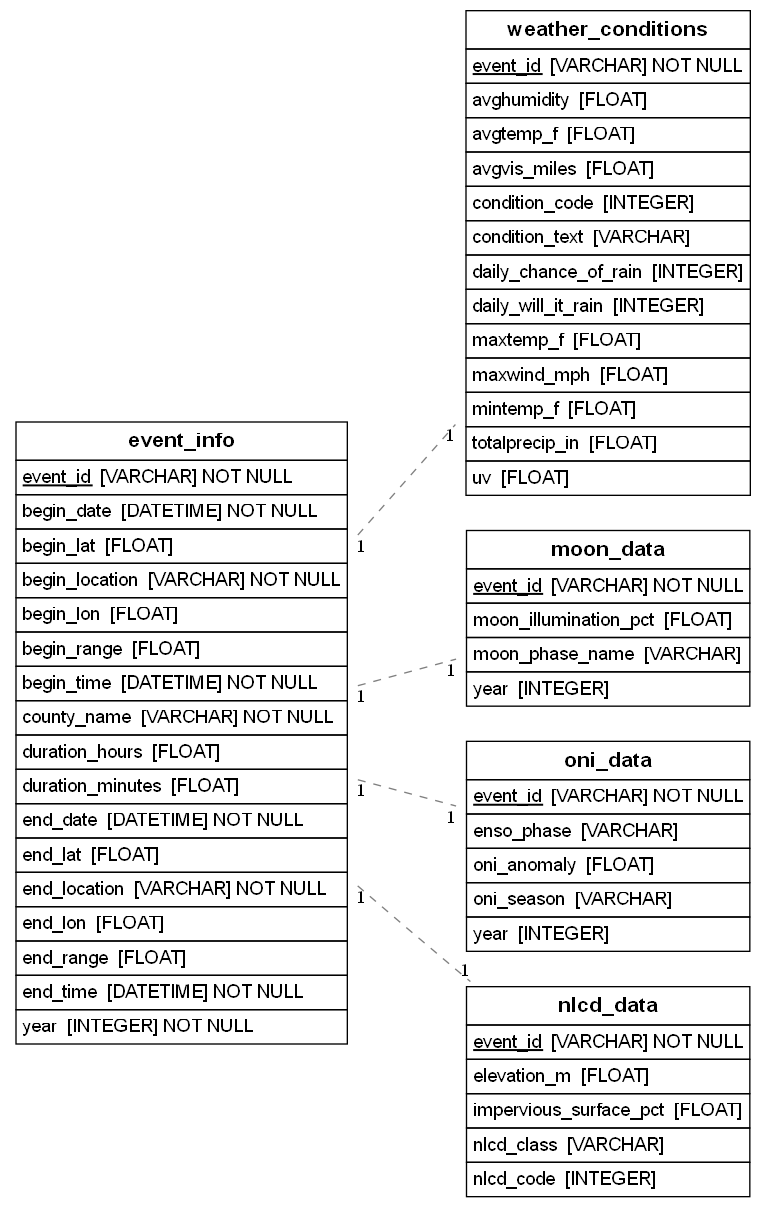
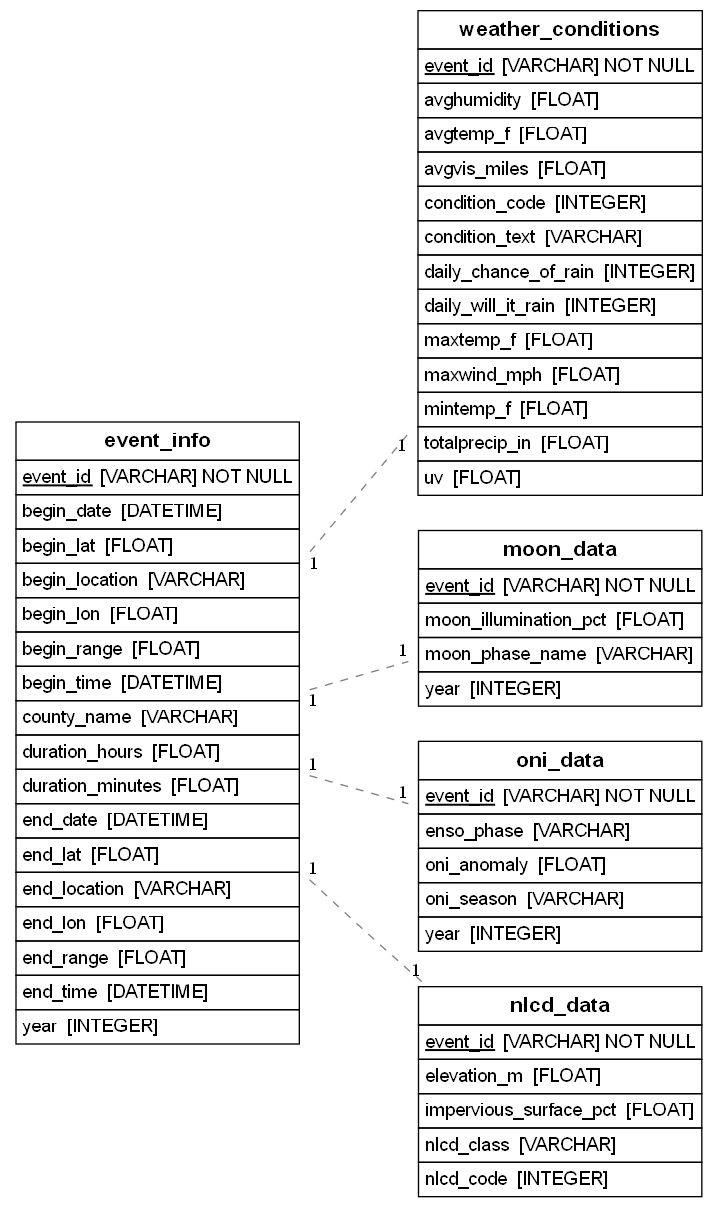
Updated erd_diagram_generation.py file and erd_diagram.png file

Changed region(s): [[0.0, 0.3372, 0.4903, 0.8583], [0.5515, 0.0, 0.9805, 0.5824], [0.5515, 0.6131, 0.9805, 1.0]]

diff --git a/scripts/erd_diagram_generation.py b/scripts/erd_diagram_generation.py
@@ -14,20 +14,20 @@ class EventInfo(Base):
     __tablename__ = 'event_info'
     
     event_id = Column(String, primary_key=True)
-    county_name = Column(String, nullable=False)
-    begin_date = Column(DateTime, nullable=False)
-    end_date = Column(DateTime, nullable=False)
-    begin_time = Column(DateTime, nullable=False)
-    end_time = Column(DateTime, nullable=False)
-    begin_location = Column(String, nullable=False)
-    end_location = Column(String, nullable=False)
+    county_name = Column(String)
+    begin_date = Column(DateTime)
+    end_date = Column(DateTime)
+    begin_time = Column(DateTime)
+    end_time = Column(DateTime)
+    begin_location = Column(String)
+    end_location = Column(String)
     begin_range = Column(Float)
     end_range = Column(Float)
     begin_lat = Column(Float)
     begin_lon = Column(Float)
     end_lat = Column(Float)
     end_lon = Column(Float)
-    year = Column(Integer, nullable=False)
+    year = Column(Integer)
     duration_minutes = Column(Float)
     duration_hours = Column(Float)
     